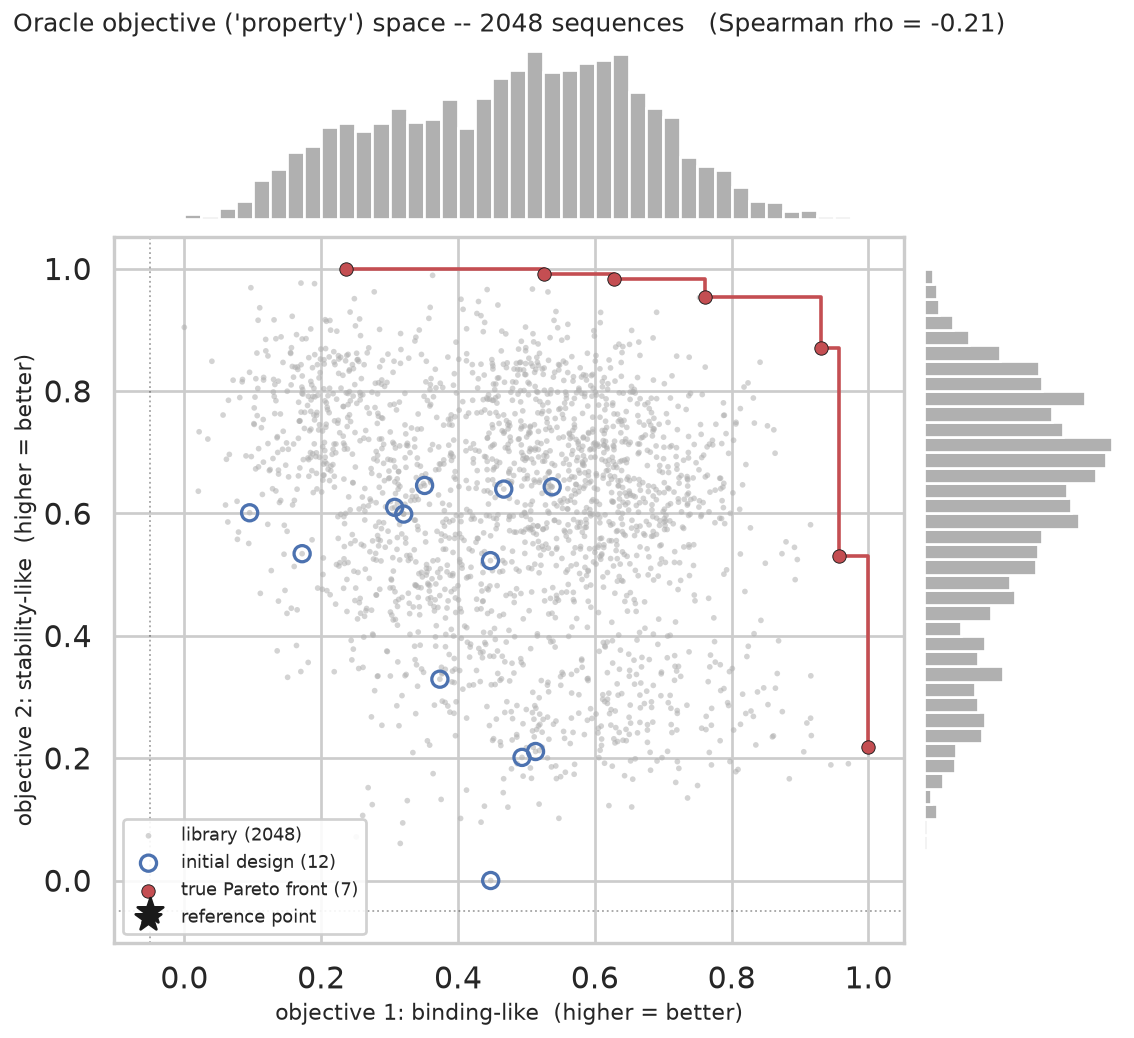
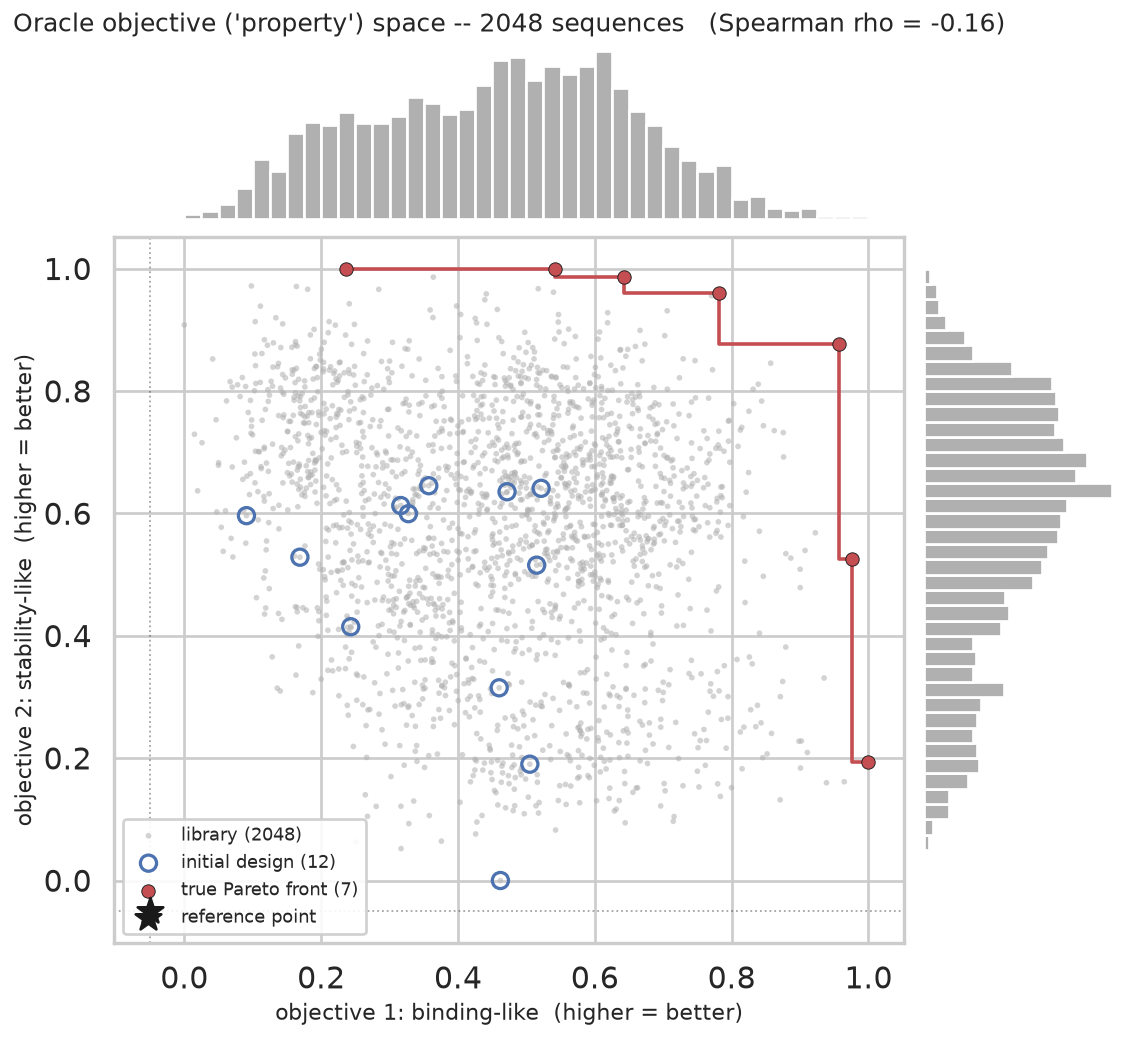
Fix same Pareto staircase bug in visualize_data; regenerate figures
scripts/visualize_data.py had its own _pareto_staircase with the same outer-corner
bug (right-then-down -> phantom vertex above the points). Corrected to the max/max
attainment surface (down-then-right, inner corners), matching the mobo_lab.plotting
fix. Used by plot_objective_space and plot_property_tradeoffs.

Regenerated docs/figures/objective_space.png (also picks up the deeper-valley
oracle: Spearman -0.16, bilobed concave front) and property_tradeoffs.png; the
other five figures re-render byte-identical. Added an inner-corner regression test.

diff --git a/scripts/visualize_data.py b/scripts/visualize_data.py
@@ -209,18 +209,22 @@ def _pareto_front_2d_max(x: np.ndarray, y: np.ndarray) -> np.ndarray:
 
 
 def _pareto_staircase(x: np.ndarray, y: np.ndarray) -> tuple[np.ndarray, np.ndarray]:
-    """Staircase coordinates tracing the upper-right (max/max) Pareto frontier.
+    """Staircase coordinates tracing the (max/max) Pareto frontier.
 
     Given the non-dominated points, sort by x ascending (y then descends) and
-    connect them with horizontal-then-vertical steps, so the line bounds the
-    dominated region the way a Pareto front is usually drawn.
+    connect consecutive points with a **vertical-then-horizontal** step: drop
+    *down* at the left point's x to the next point's y, then go *right*. This traces
+    the boundary of the dominated region (the attainment surface), so every corner
+    lies on the frontier and the actual points all sit on the line -- no phantom
+    corner appears above/right of the points (which a right-then-down step would
+    wrongly draw, implying undominated points are dominated).
     """
     order = np.argsort(x)
     xs, ys = x[order], y[order]
     step_x, step_y = [xs[0]], [ys[0]]
     for k in range(1, len(xs)):
-        step_x.extend([xs[k], xs[k]])   # move right, then down
-        step_y.extend([ys[k - 1], ys[k]])
+        step_x.extend([xs[k - 1], xs[k]])   # drop down at the previous x, then move right
+        step_y.extend([ys[k], ys[k]])
     return np.asarray(step_x), np.asarray(step_y)
 
 

diff --git a/tests/scripts/test_visualize_data.py b/tests/scripts/test_visualize_data.py
@@ -58,6 +58,19 @@ def test_staircase_is_monotonic() -> None:
     assert (sx[-1], sy[-1]) == (3.0, 0.0)
 
 
+def test_staircase_uses_inner_corners() -> None:
+    # Between (0.6, 0.95) and (0.9, 0.5) the corner must be the inner (0.6, 0.5),
+    # not a phantom outer corner at (0.9, 0.95) above both points.
+    x = np.array([0.6, 0.9])
+    y = np.array([0.95, 0.5])
+    sx, sy = _pareto_staircase(x, y)
+    corners = list(zip(sx.tolist(), sy.tolist()))
+    assert corners == [(0.6, 0.95), (0.6, 0.5), (0.9, 0.5)]
+    assert (0.9, 0.95) not in corners
+    # the polyline never rises above the points' bounding box
+    assert sy.max() == 0.95 and sx.max() == 0.9
+
+
 def test_nearest_neighbor_distances_known_points() -> None:
     # NN of (0,0) is (0,3) at 3; of (0,3) is (0,0) at 3; of (4,0) is (0,0) at 4.
     pts = np.array([[0.0, 0.0], [0.0, 3.0], [4.0, 0.0]])